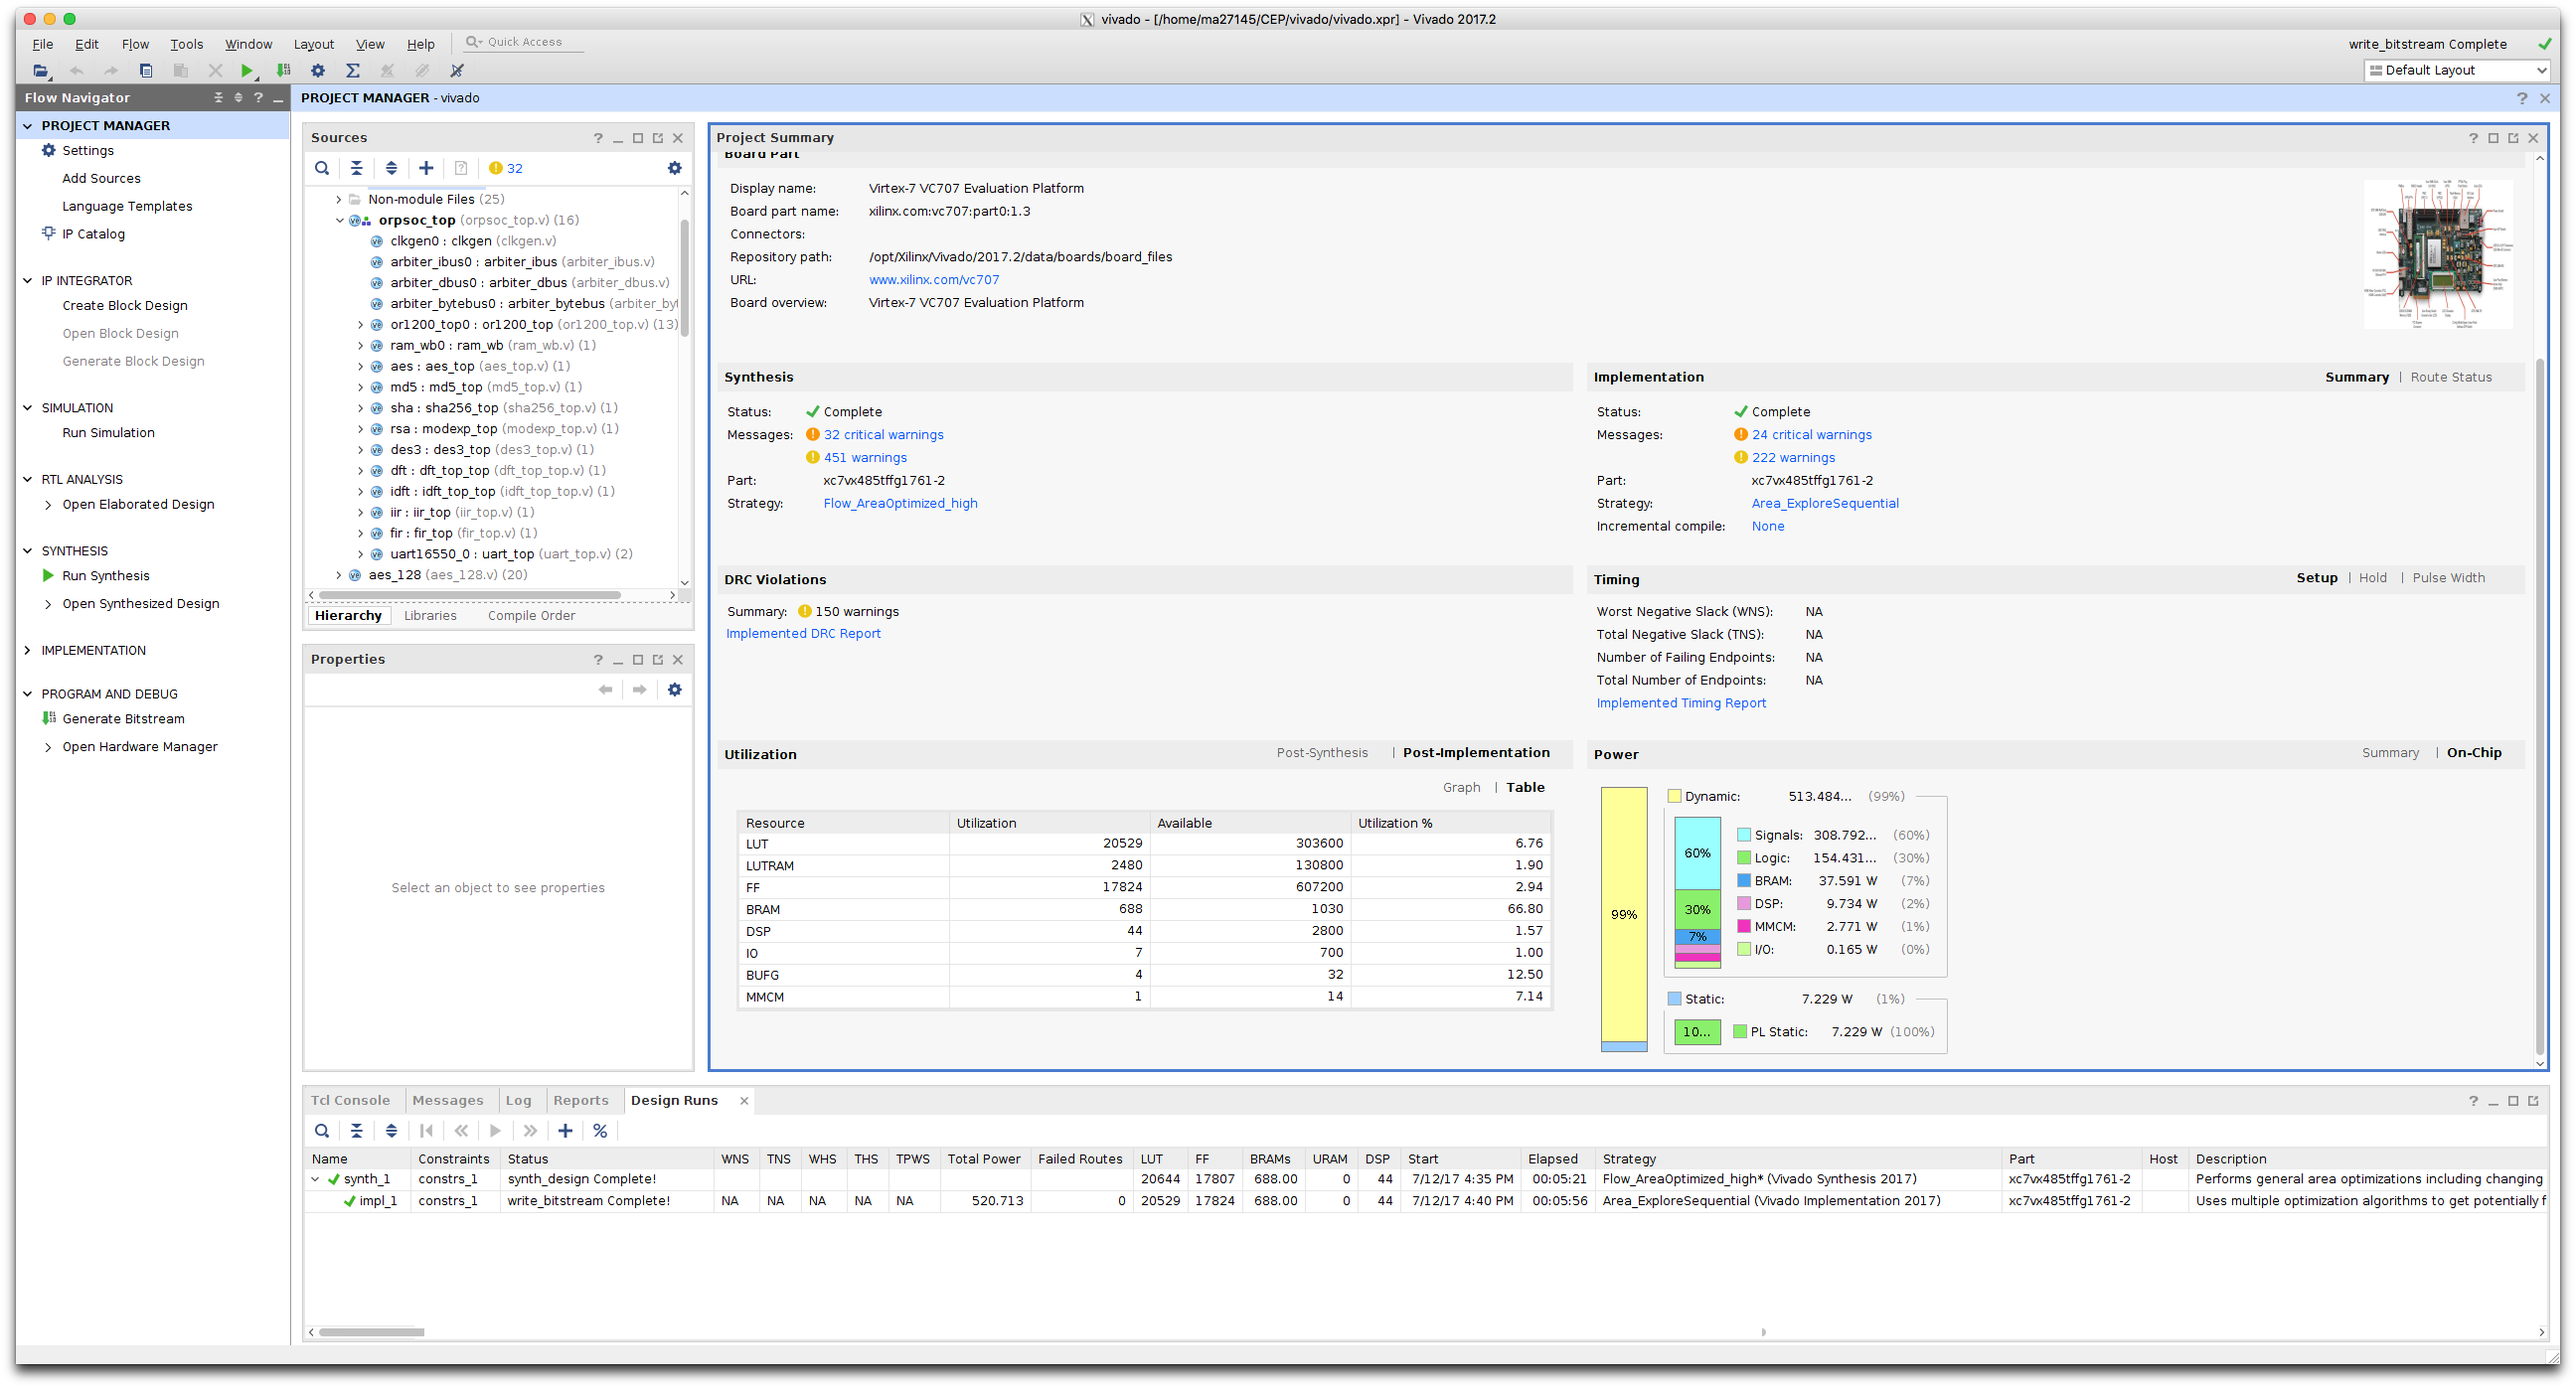
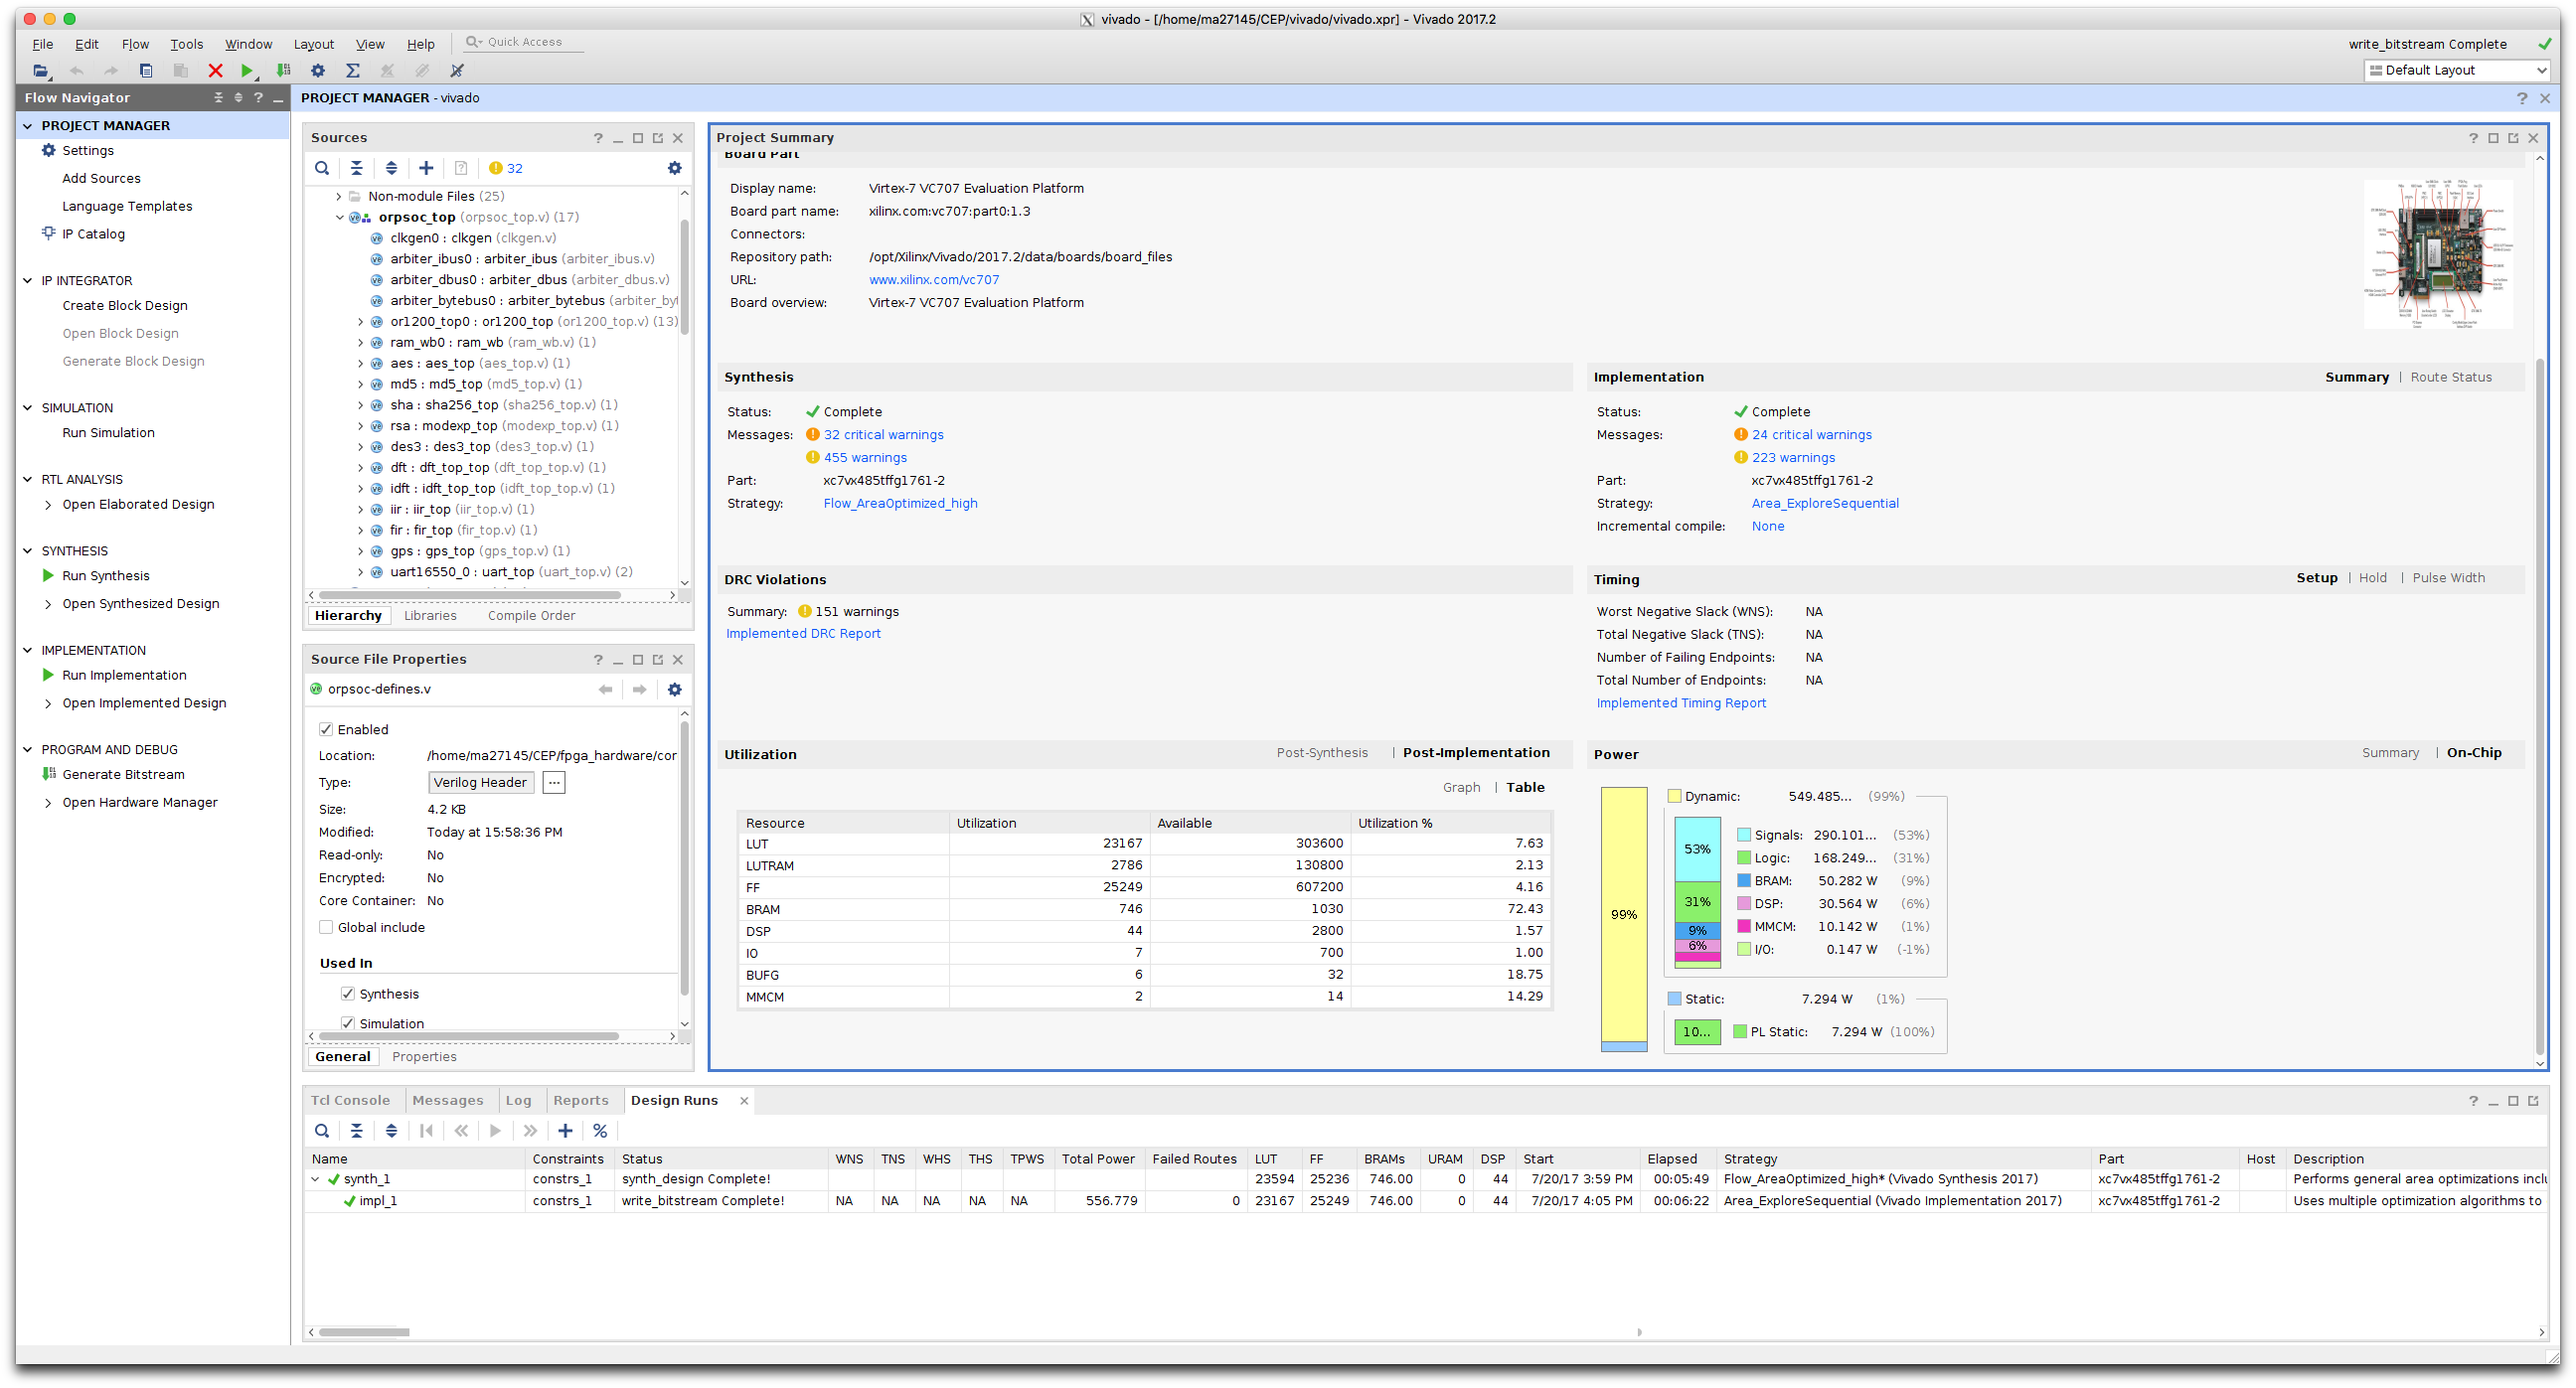
Update impl results.

diff --git a/README.md b/README.md
@@ -46,7 +46,8 @@ idft     |60% |3017% |91%  |7%  |500% |    |706%        |173%
 fir      |22% |156%  |25%  |    |     |    |97%         |56%
 iir      |40% |156%  |40%  |    |     |    |139%        |71%
 **`dsp`**|**185%**|**6344%**|**246%**|**13%**|**1000%**| |**822%**|**466%**
-**`all`**|**404%**|**6789%**|**590%**|**34%**|**1000%**|**33%**|**838%**|**1703%**
+**`gps`**|**71%**|**406%**|**197%**|**19%**| |**67%**|**346%**|**121%**
+**`all`**|**469%**|**7639%**|**878%**|**45%**|**1000%**|**100%**|**846%**|**1829%**
     
 ## Adding a core to the SoC
 * Add a define that will control whether the core is included in the SoC to fpga_hardware/cores/top/orpsoc-defines.v
